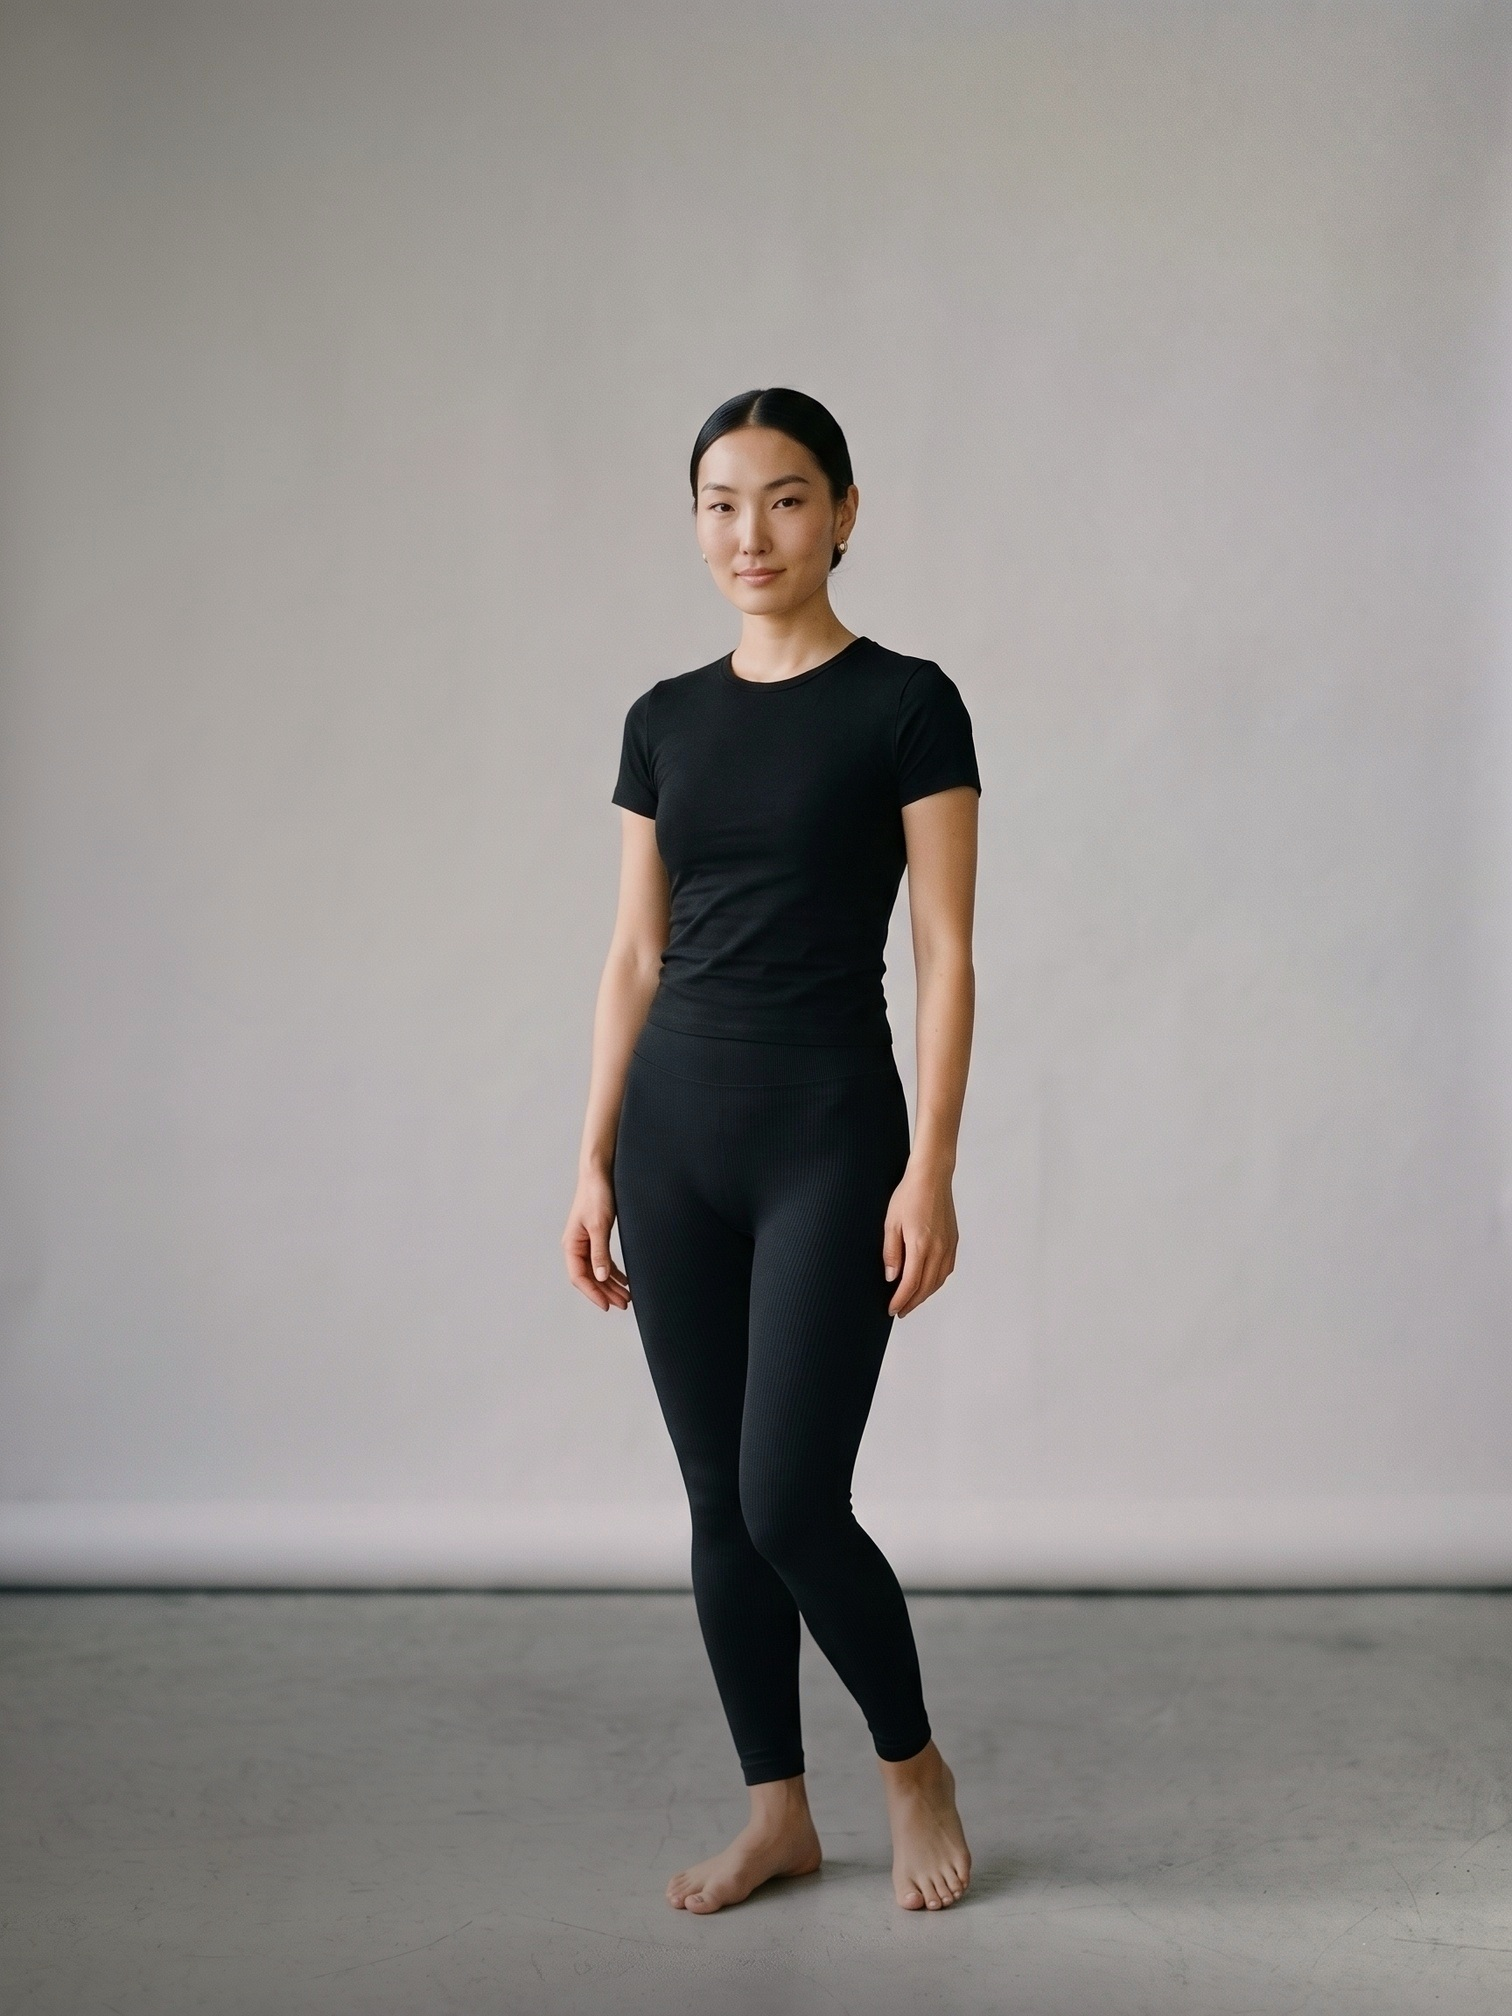
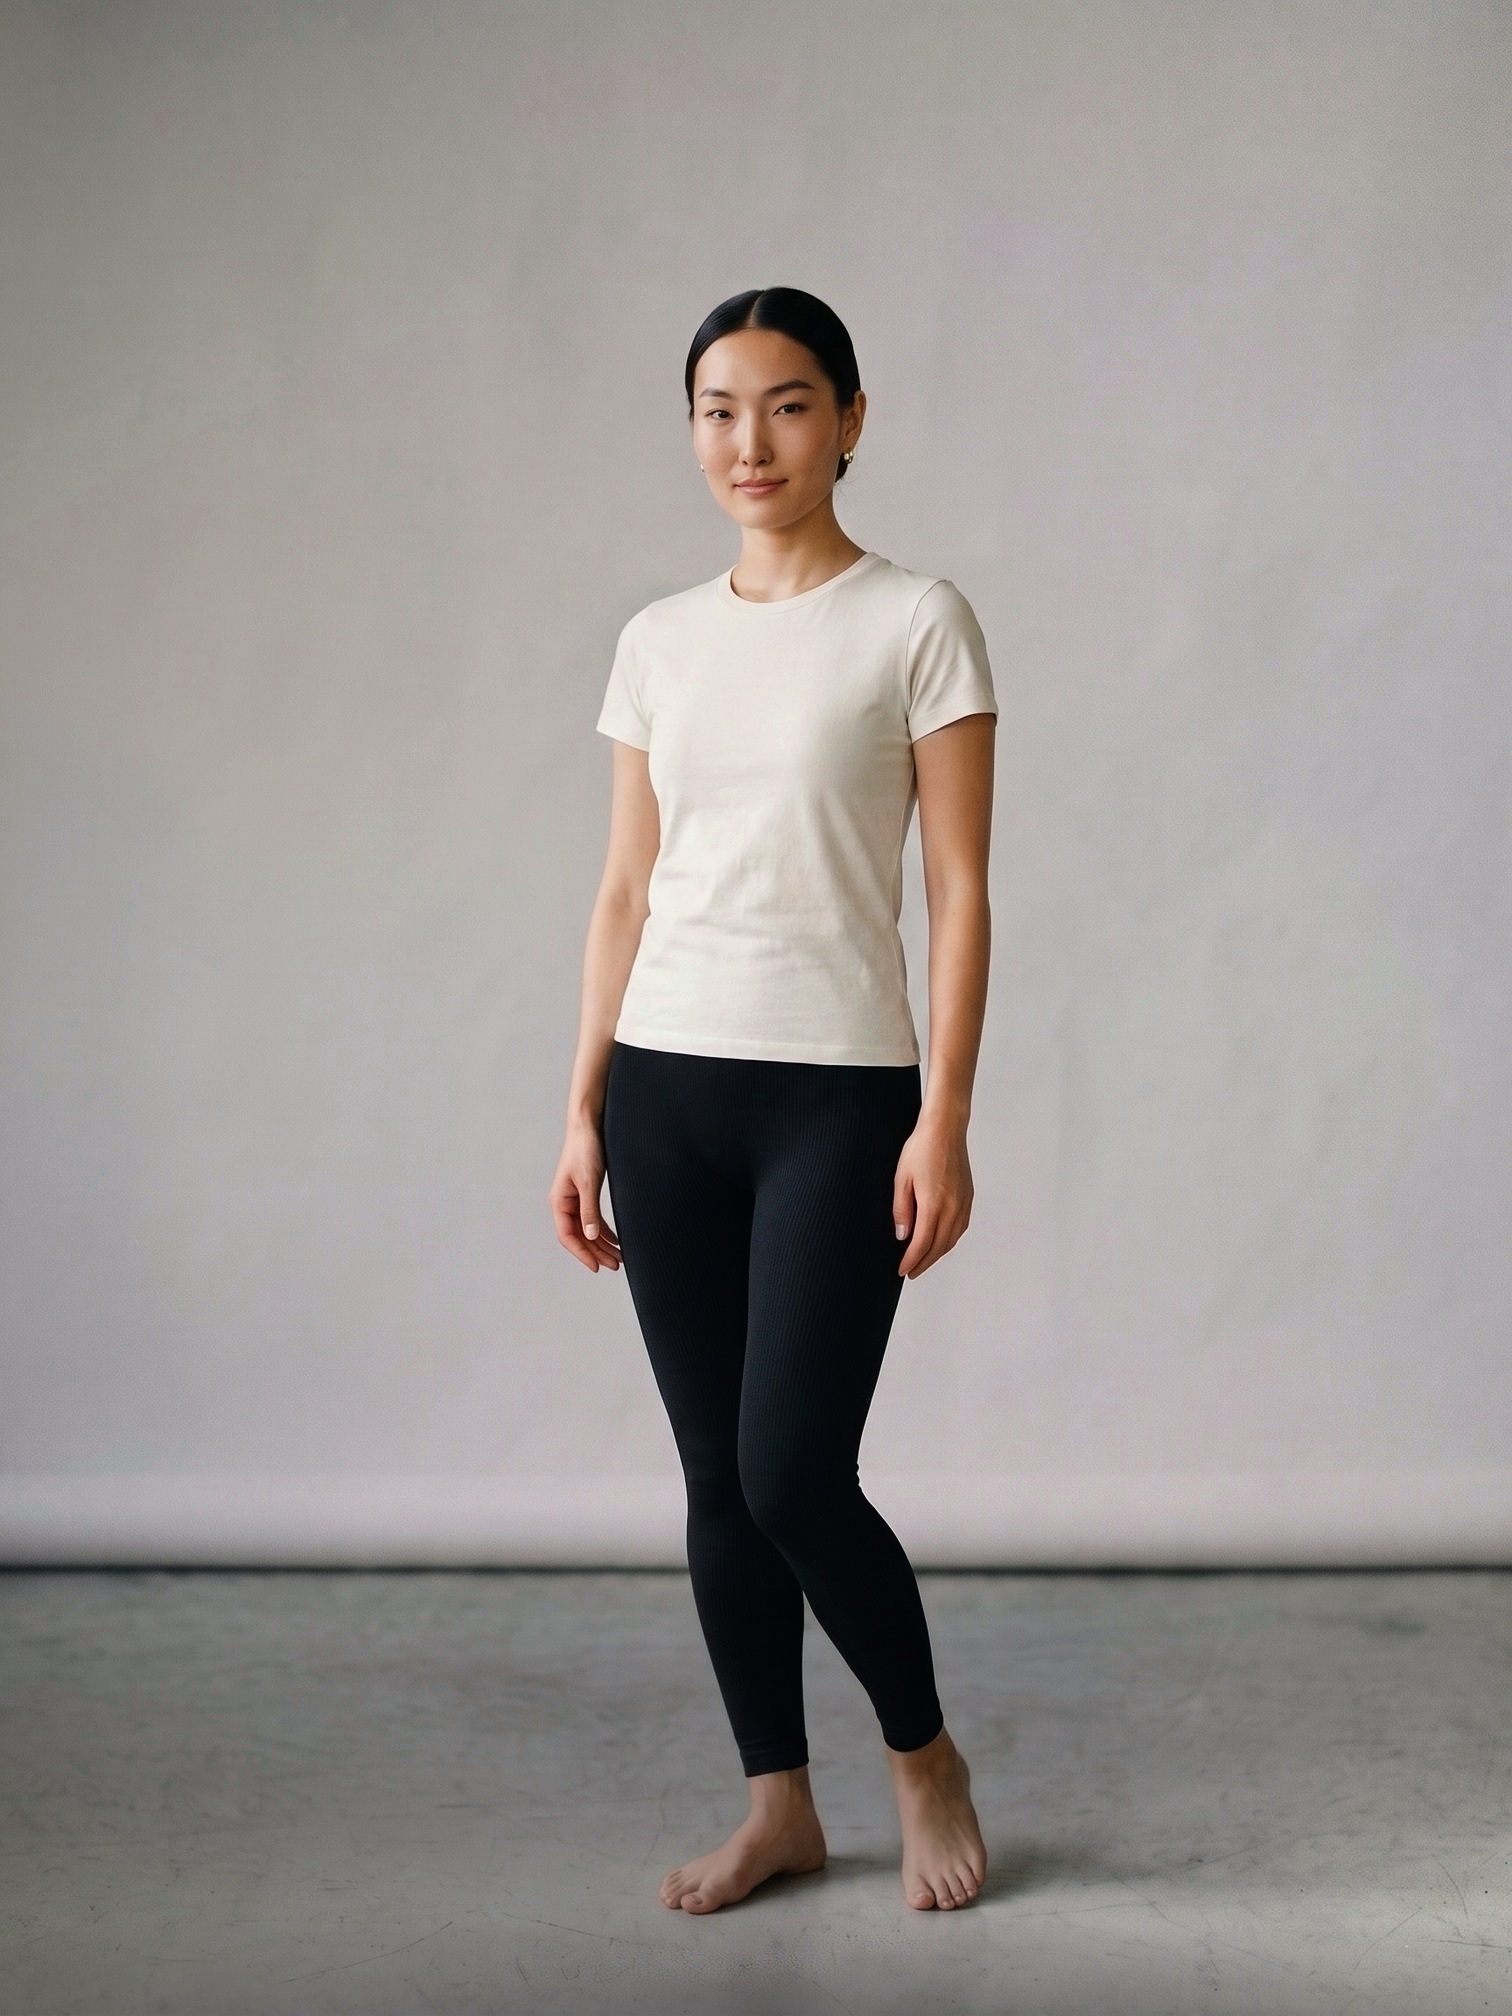
Squat-Proof Legging: new base photos (ivory tee, waistband visible); Sand is now the same photo with only the fabric recoloured (recolour_dark.py), products.js?v=45
Claude-Session: https://claude.ai/code/session_01TH6XjwVeudERd93hT9p8gq

diff --git a/assets/products.js b/assets/products.js
@@ -80,7 +80,7 @@ window.COVERLINE_PRODUCTS = [
     care: "Seamless stretch knit. Machine wash cold, hang or lay flat to dry. Skip the tumble dryer — it\'s what kills the stretch in every pair you\'ve owned before.",
     colors: [
       { key: "black", label: "Black", hex: "#25272a", image: "/assets/product-images/legging-black.jpg?v=39", images: ["/assets/product-images/legging-black.jpg?v=39", "/assets/product-images/legging-black-proof.jpg?v=39", "/assets/product-images/legging-black-back.jpg?v=39", "/assets/product-images/legging-black-detail.jpg?v=39"] },
-      { key: "nude", label: "Sand", hex: "#c9a888", image: "/assets/product-images/legging-nude.jpg?v=44", images: ["/assets/product-images/legging-nude.jpg?v=44", "/assets/product-images/legging-nude-proof.jpg?v=44", "/assets/product-images/legging-nude-back.jpg?v=44", "/assets/product-images/legging-nude-detail.jpg?v=44"] }
+      { key: "nude", label: "Sand", hex: "#c9a888", image: "/assets/product-images/legging-nude.jpg?v=45", images: ["/assets/product-images/legging-nude.jpg?v=45", "/assets/product-images/legging-nude-proof.jpg?v=45", "/assets/product-images/legging-nude-back.jpg?v=45", "/assets/product-images/legging-nude-detail.jpg?v=45"] }
     ],
     image: "/assets/product-images/legging-black.jpg?v=39",
     swatch: function(){ return '<rect width="300" height="400" fill="var(--paper-raised)"/><path d="M0,240 C 100,300 200,200 300,260 L300,400 L0,400 Z" fill="var(--accent-2)" opacity=".5"/><path d="M0,150 C 110,90 190,210 300,160" fill="none" stroke="var(--accent)" stroke-width="1"/>'; }

diff --git a/product.html b/product.html
@@ -75,7 +75,7 @@
   </div>
 </footer>
 
-<script src="/assets/products.js?v=44"></script>
+<script src="/assets/products.js?v=45"></script>
 <script src="/assets/sizecharts.js?v=2"></script>
 <script src="/assets/reviews.js?v=1"></script>
 <script src="/assets/config.js?v=4"></script>

diff --git a/index.html b/index.html
@@ -100,7 +100,7 @@
   </div>
 </footer>
 
-<script src="/assets/products.js?v=44"></script>
+<script src="/assets/products.js?v=45"></script>
 <script src="/assets/config.js?v=4"></script>
 <script src="/assets/cart.js?v=10"></script>
 <script>

diff --git a/review.html b/review.html
@@ -74,7 +74,7 @@
   </div>
 </footer>
 
-<script src="/assets/products.js?v=44"></script>
+<script src="/assets/products.js?v=45"></script>
 <script src="/assets/config.js?v=4"></script>
 <script src="/assets/cart.js?v=10"></script>
 <script>

diff --git a/404.html b/404.html
@@ -46,7 +46,7 @@
   </div>
 </footer>
 
-<script src="/assets/products.js?v=44"></script>
+<script src="/assets/products.js?v=45"></script>
 <script src="/assets/config.js?v=4"></script>
 <script src="/assets/cart.js?v=10"></script>
 </body>

diff --git a/privacy.html b/privacy.html
@@ -85,7 +85,7 @@
   </div>
 </footer>
 
-<script src="/assets/products.js?v=44"></script>
+<script src="/assets/products.js?v=45"></script>
 <script src="/assets/config.js?v=4"></script>
 <script src="/assets/cart.js?v=10"></script>
 </body>

diff --git a/shipping-returns.html b/shipping-returns.html
@@ -78,7 +78,7 @@
   </div>
 </footer>
 
-<script src="/assets/products.js?v=44"></script>
+<script src="/assets/products.js?v=45"></script>
 <script src="/assets/config.js?v=4"></script>
 <script src="/assets/cart.js?v=10"></script>
 </body>

diff --git a/terms.html b/terms.html
@@ -92,7 +92,7 @@
   </div>
 </footer>
 
-<script src="/assets/products.js?v=44"></script>
+<script src="/assets/products.js?v=45"></script>
 <script src="/assets/config.js?v=4"></script>
 <script src="/assets/cart.js?v=10"></script>
 </body>

diff --git a/tools/imagery/recolour_dark.py b/tools/imagery/recolour_dark.py
@@ -35,13 +35,13 @@ def main():
     solid=np.asarray(lab)==128
     region=_blur(solid.astype(float),4.0)>0.02          # garment + a few px of edge
     # 3. per-pixel recolour strength: 1 on solid fabric, fading to 0 across the anti-aliased edge (by darkness)
-    s=np.clip((th+40-mx)/60.0,0,1)*region*neutral
+    s=np.clip((th+25-mx)/45.0,0,1)*region*neutral
     s=np.where(solid,1.0,s)
     # 4. shading: normalise the garment's own luminance range, place it on the target colour
     Lg=L[solid]; lo,hi=np.percentile(Lg,2),np.percentile(Lg,99.5)
     n=np.clip((L-lo)/max(hi-lo,1),0,1)
     k=0.5+(1.3-0.5)*n**0.85                            # dark folds 0.5×target, highlights 1.3× — keeps the fabric's contrast so it never reads as skin
-    k=np.where(solid,k,np.minimum(k,0.6))               # edge pixels stay on the dark side of the curve (reads as the original edge, no rim)
+    k=np.where(solid,k,np.minimum(k,0.5))               # edge pixels stay on the dark side of the curve (reads as the original edge, no rim)
     col=tgt[None,None,:]*k[...,None]
     out=s[...,None]*col+(1-s[...,None])*x
     Image.fromarray(np.clip(out,0,255).astype(np.uint8)).save(outp,quality=94)
